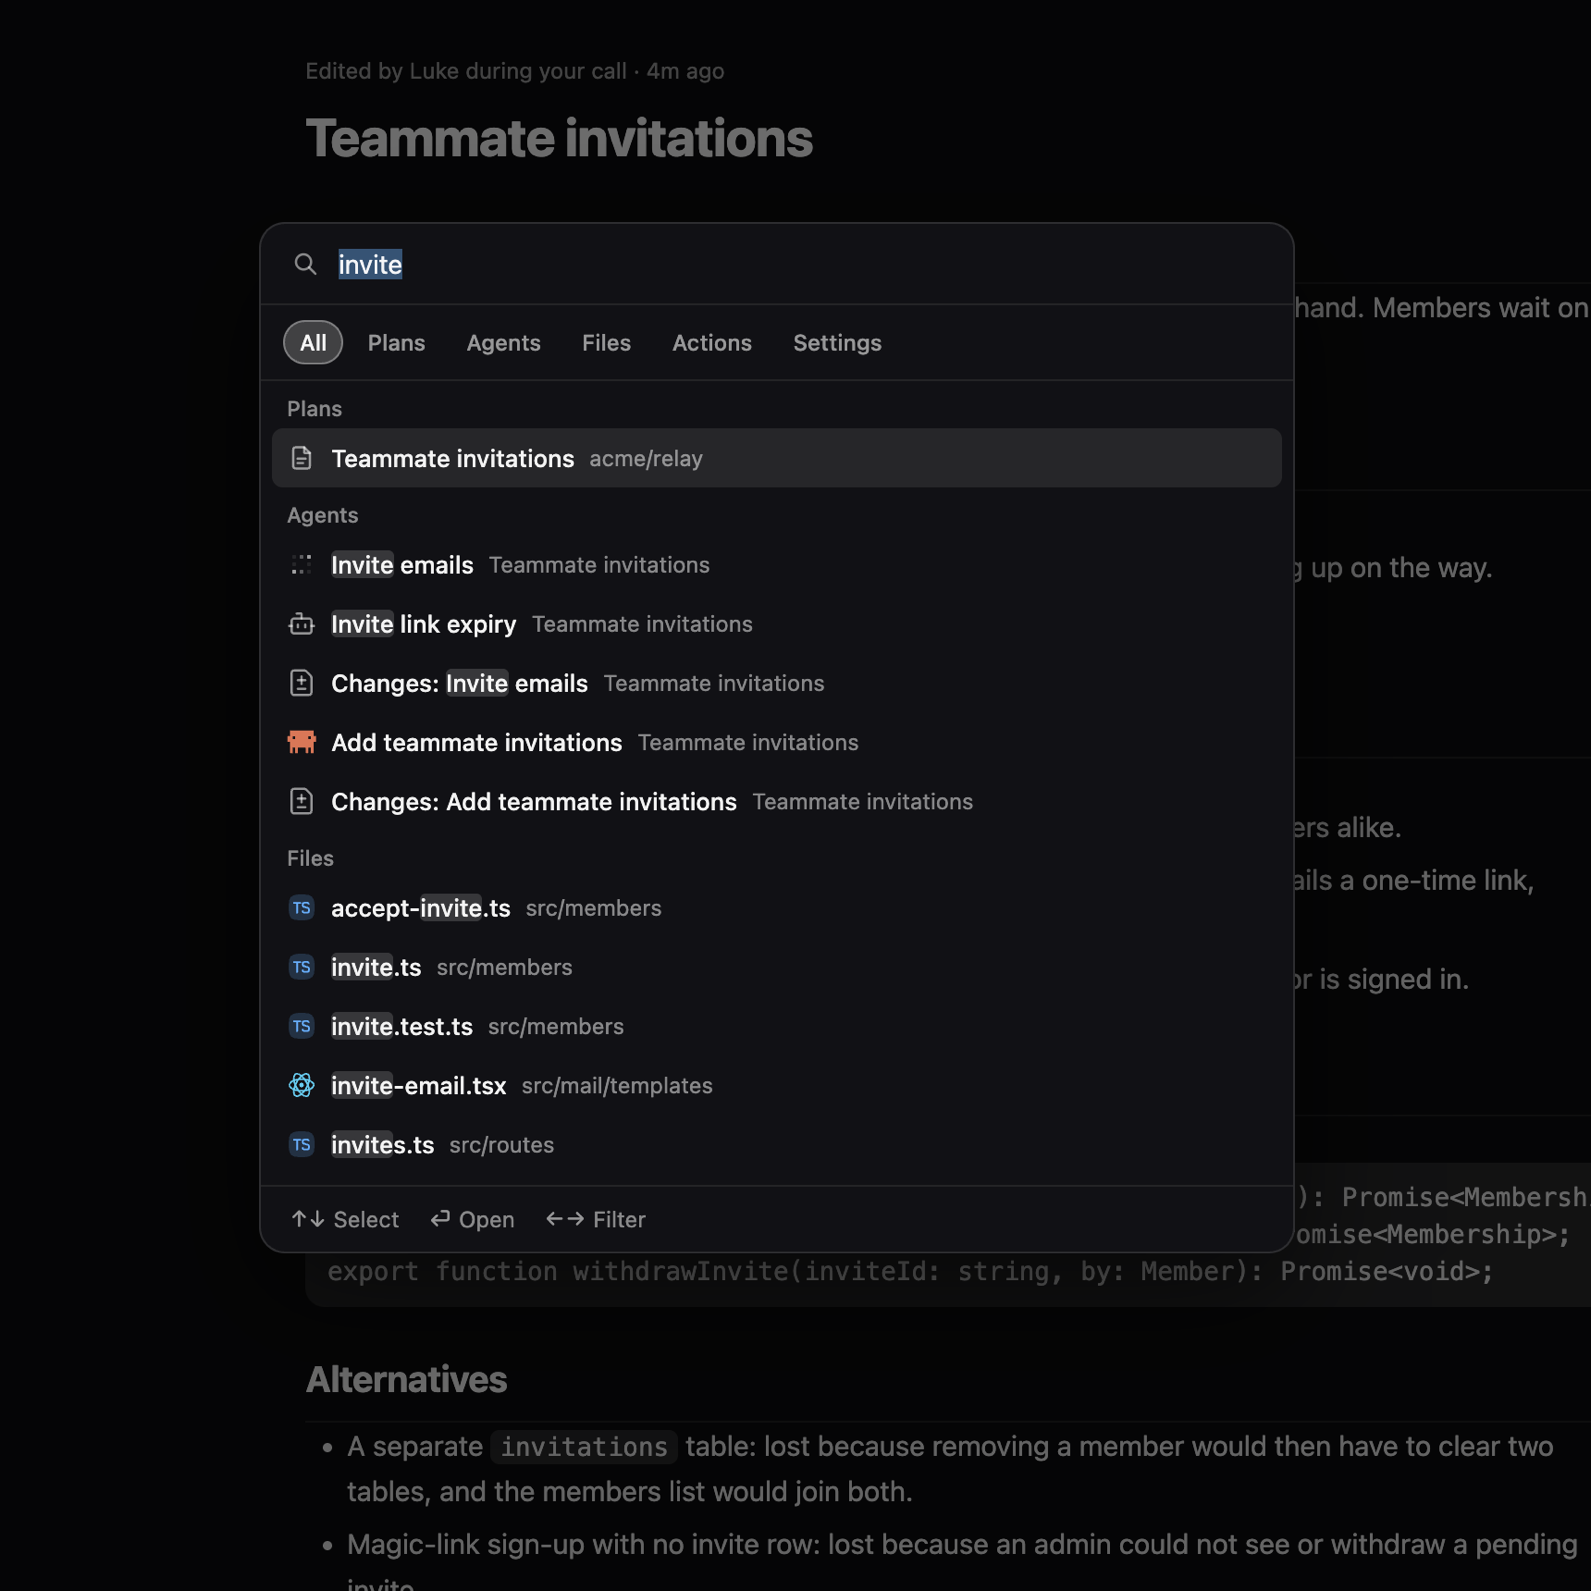
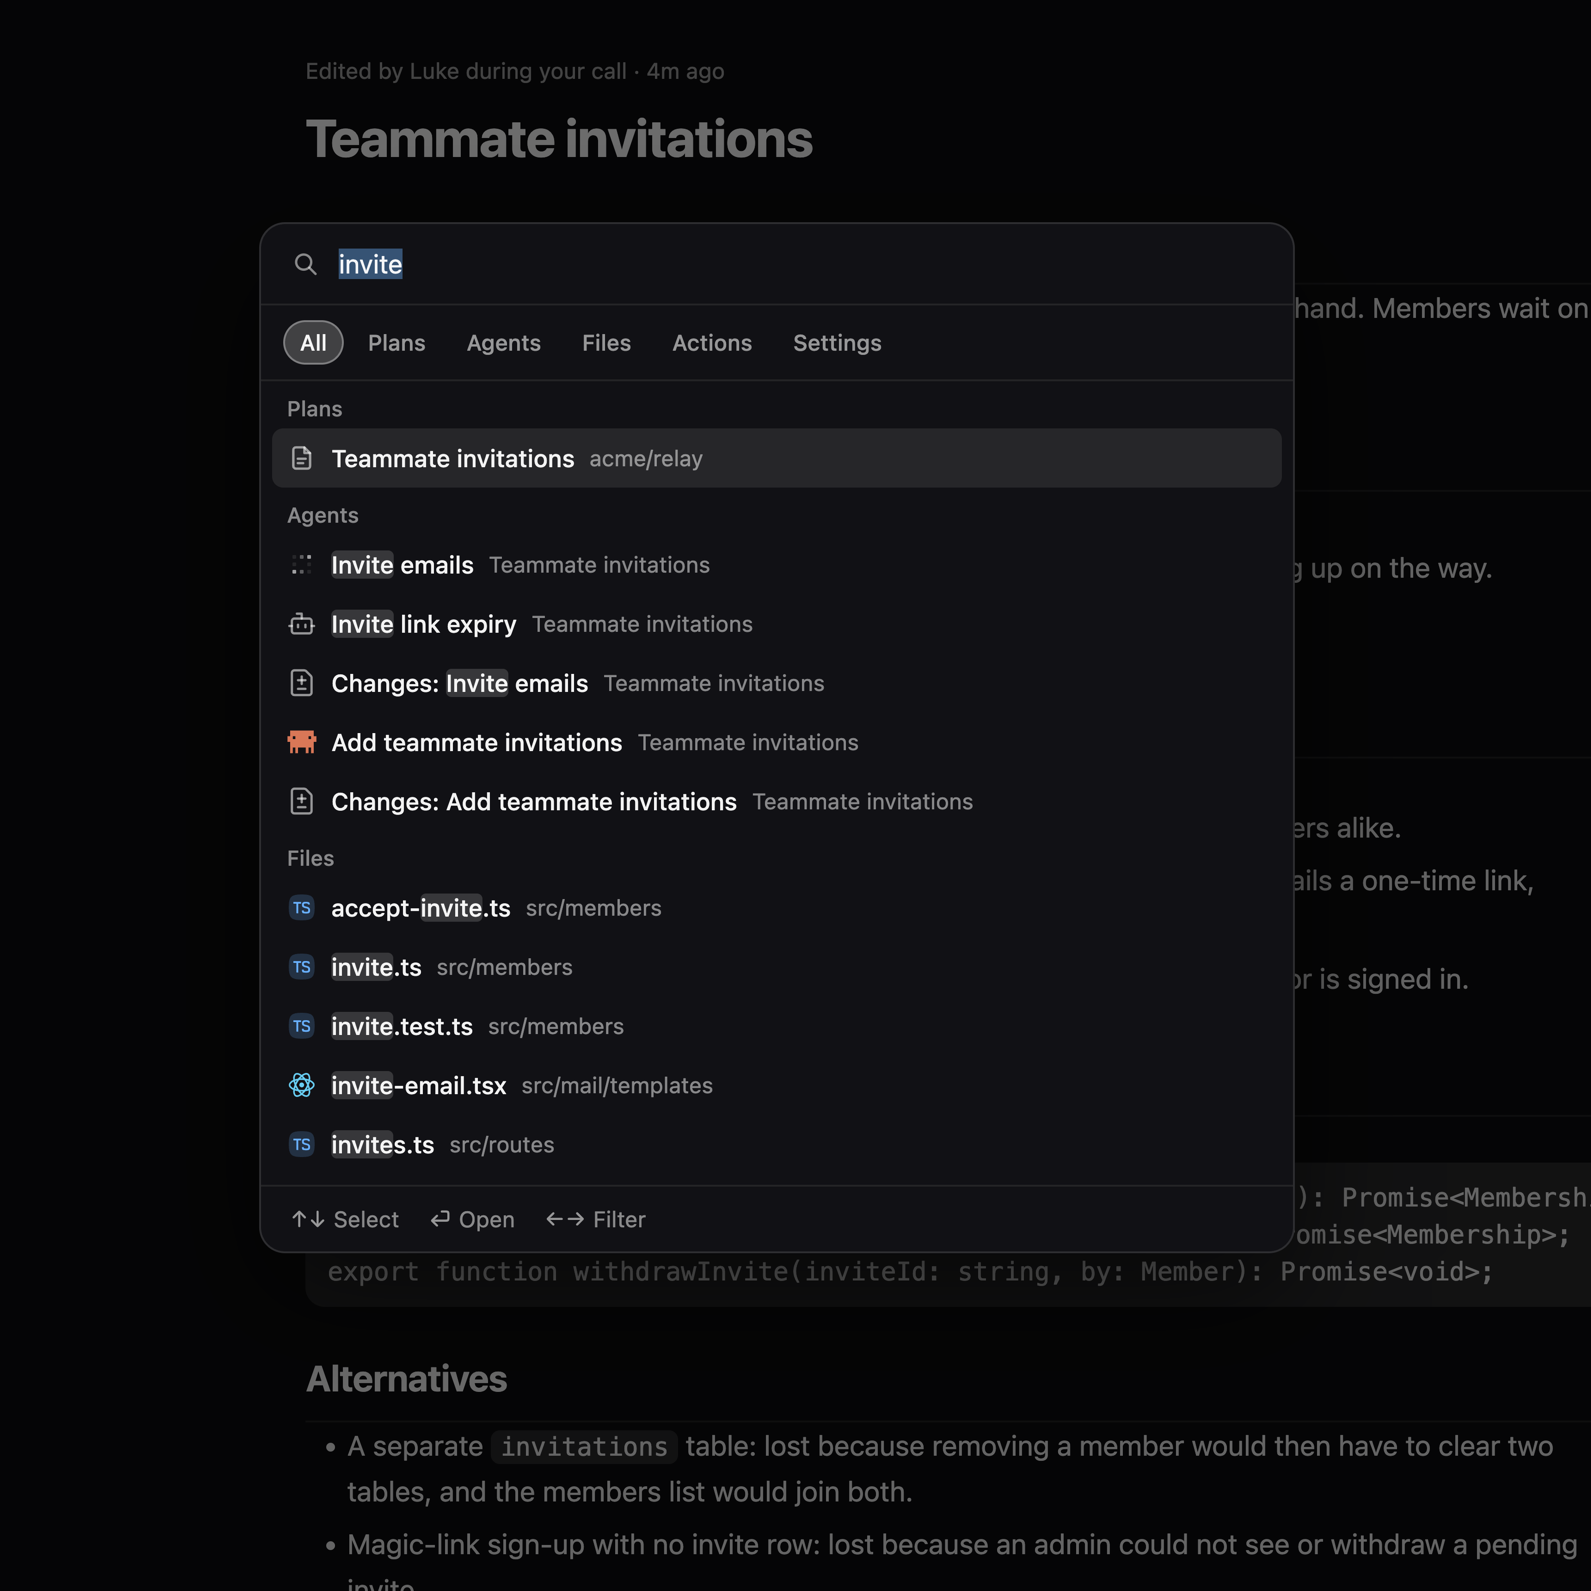
docs(changelog): close-ups are captured zoomed, so they are sharp, and every shot shows a feature working
A close-up no longer enlarges a Retina capture to the standard height: the
skill's helpers open the window LUKE_SHOT_ZOOM times larger in points (past
the screen, enableLargerThanScreen patched into the throwaway build) with its
page zoomed to match, so the layout is unchanged and drawn at 4 pixels a
point, and changelog-screenshot.sh --zoom tells the framer so the crop's
points stay the app's own. The ⌘K, skills, and integrations close-ups are
retaken that way. Integrations shows Sentry connected beside Linear and
Notion, and the rules now say a screenshot shows the state a feature is for,
never an error or empty state unless that is the news.

Changed region(s): [[0.2156, 0.154, 0.2464, 0.1848]]

diff --git a/scripts/lib/frame-screenshot.swift b/scripts/lib/frame-screenshot.swift
@@ -1,6 +1,6 @@
 // frame-screenshot.swift -- frames a macOS window capture on the Golden Gate Sunset aerial for CHANGELOG.md.
 //
-//   frame-screenshot <capture.png> <out.png> <wallpaper-cache.png> [x,y,width,height]
+//   frame-screenshot <capture.png> <out.png> <wallpaper-cache.png> [x,y,width,height [zoom]]
 //
 // The capture is a window as macOS's own window capture takes it: the window
 // body opaque, its shadow fading to transparent around it. The window body is
@@ -11,7 +11,9 @@
 // height the whole one would have, so a close-up stands beside the full
 // windows at their height, narrower and nearer. It is composed at the
 // capture's own resolution, so a crop at least 800 points tall is never
-// enlarged past its pixels. The wallpaper is the first
+// enlarged past its pixels, and a capture taken zoomed (the window that many
+// times larger, its page zoomed to match) holds that many times the pixels
+// for a crop of the same points. The wallpaper is the first
 // frame of macOS's Golden Gate Sunset aerial (Marshall's Beach), read once from
 // Apple's servers and cached, since macOS keeps the aerial as a video, not a
 // still.
@@ -170,10 +172,12 @@ func windowBody(_ image: CGImage) throws -> CGRect {
 }
 
 /// The window on the wallpaper: the wallpaper scaled to cover the canvas and centred, the window drawn shadow and all.
-func frame(capture: CGImage, wallpaper: CGImage, width outputWidth: Int = OUTPUT_WIDTH) throws -> CGImage {
+func frame(
+    capture: CGImage, wallpaper: CGImage, width outputWidth: Int = OUTPUT_WIDTH, margin: Int = MARGIN
+) throws -> CGImage {
     let body = try windowBody(capture)
-    let canvasWidth = body.width + CGFloat(2 * MARGIN)
-    let canvasHeight = body.height + CGFloat(2 * MARGIN)
+    let canvasWidth = body.width + CGFloat(2 * margin)
+    let canvasHeight = body.height + CGFloat(2 * margin)
     let scale = CGFloat(outputWidth) / canvasWidth
     let outputHeight = Int((canvasHeight * scale).rounded())
     let context = try wallpaperCanvas(width: outputWidth, height: outputHeight, wallpaper: wallpaper)
@@ -181,8 +185,8 @@ func frame(capture: CGImage, wallpaper: CGImage, width outputWidth: Int = OUTPUT
     // Note that we place the capture from the top, because the body was measured top-down and Core Graphics draws bottom-up.
     let captureWidth = CGFloat(capture.width) * scale
     let captureHeight = CGFloat(capture.height) * scale
-    let left = (CGFloat(MARGIN) - body.minX) * scale
-    let top = (CGFloat(MARGIN) - body.minY) * scale
+    let left = (CGFloat(margin) - body.minX) * scale
+    let top = (CGFloat(margin) - body.minY) * scale
     context.draw(
         capture,
         in: CGRect(
@@ -192,14 +196,19 @@ func frame(capture: CGImage, wallpaper: CGImage, width outputWidth: Int = OUTPUT
     return output
 }
 
-/// Part of the framed picture: the window on the wallpaper composed at the capture's resolution, cut to the crop, and scaled to the whole picture's height.
-func frameCrop(capture: CGImage, crop: CGRect, scale: CGFloat, wallpaper: CGImage) throws -> CGImage {
+/// Part of the framed picture: the window on the wallpaper composed at the capture's resolution, cut to the crop, and scaled to the height a whole unzoomed picture has.
+///
+/// Note that the margin grows with the zoom, because it is wallpaper in the window's points, not the capture's pixels.
+func frameCrop(capture: CGImage, crop: CGRect, scale: CGFloat, zoom: CGFloat, wallpaper: CGImage) throws -> CGImage {
     let body = try windowBody(capture)
-    let nativeWidth = Int(body.width) + 2 * MARGIN
-    let whole = try frame(capture: capture, wallpaper: wallpaper, width: nativeWidth)
-    let outputHeight = Int((CGFloat(whole.height) * CGFloat(OUTPUT_WIDTH) / CGFloat(nativeWidth)).rounded())
+    let margin = Int((CGFloat(MARGIN) * zoom).rounded())
+    let nativeWidth = Int(body.width) + 2 * margin
+    let whole = try frame(capture: capture, wallpaper: wallpaper, width: nativeWidth, margin: margin)
+    let outputHeight = Int(
+        ((body.height / zoom + CGFloat(2 * MARGIN)) * CGFloat(OUTPUT_WIDTH) / (body.width / zoom + CGFloat(2 * MARGIN)))
+            .rounded())
     let cut = CGRect(
-        x: CGFloat(MARGIN) + crop.minX * scale, y: CGFloat(MARGIN) + crop.minY * scale,
+        x: CGFloat(margin) + crop.minX * scale, y: CGFloat(margin) + crop.minY * scale,
         width: crop.width * scale, height: crop.height * scale
     ).integral
     let outputWidth = Int((cut.width * CGFloat(outputHeight) / cut.height).rounded())
@@ -224,9 +233,9 @@ func frameCrop(capture: CGImage, crop: CGRect, scale: CGFloat, wallpaper: CGImag
 }
 
 let arguments = CommandLine.arguments
-guard arguments.count == 4 || arguments.count == 5 else {
+guard (4...6).contains(arguments.count) else {
     FileHandle.standardError.write(
-        "usage: frame-screenshot <capture.png> <out.png> <wallpaper-cache.png> [x,y,width,height]\n".data(
+        "usage: frame-screenshot <capture.png> <out.png> <wallpaper-cache.png> [x,y,width,height [zoom]]\n".data(
             using: .utf8)!)
     exit(2)
 }
@@ -234,11 +243,13 @@ do {
     let captureURL = URL(fileURLWithPath: arguments[1])
     let capture = try loadImage(captureURL)
     let backdrop = try await wallpaper(cache: URL(fileURLWithPath: arguments[3]))
+    let zoom = arguments.count == 6 ? CGFloat(Double(arguments[5]) ?? 0) : 1
+    guard zoom >= 1 else { throw FrameError(description: "a zoom is a number of at least 1") }
     let framed =
-        arguments.count == 5
+        arguments.count >= 5
         ? try frameCrop(
-            capture: capture, crop: try parseCrop(arguments[4]), scale: pixelsPerPoint(captureURL),
-            wallpaper: backdrop)
+            capture: capture, crop: try parseCrop(arguments[4]), scale: pixelsPerPoint(captureURL) * zoom,
+            zoom: zoom, wallpaper: backdrop)
         : try frame(capture: capture, wallpaper: backdrop)
     try writePNG(framed, to: URL(fileURLWithPath: arguments[2]))
 } catch {

diff --git a/.agents/skills/changelog-screenshots/SKILL.md b/.agents/skills/changelog-screenshots/SKILL.md
@@ -82,6 +82,11 @@ Every picture, whatever it shows:
   `acme/ledger`, `acme/web`), its teal two-peak mark as the owner picture,
   believable plans, agents, diffs, and dialogue about one feature
   ("Teammate invitations"). Model ids from the repository's real catalog.
+- Positive states: everything connected, checks passing, work done or
+  moving. An error, an empty list, a disconnected service, or a "Connect"
+  button goes in only when that state is what the section announces; a state
+  the release really ships that the notes leave out (0.12.0's Slack "Not
+  available") stays rather than being faked away.
 - Real UI only. Stage data and state the app already draws; never add a row,
   label, or control the release does not have (0.12.0's first Integrations
   shot invented a GitHub row and was rejected). Something the release shows
@@ -127,19 +132,30 @@ Frame with the repository's own script, from the synced checkout:
 
 ```sh
 bash $S/scripts/changelog-screenshot.sh out/the-call-tab.png --from ~/luke-shots/<v>/call.png
-bash $S/scripts/changelog-screenshot.sh out/skills.png --from ~/luke-shots/<v>/skills.png --crop 30,230,860,830
+LUKE_SHOT_ZOOM=2 bash $S/.agents/skills/changelog-screenshots/scripts/window.sh ~/luke-shots/<v>/skills.png --profile shot-skills
+bash $S/scripts/changelog-screenshot.sh out/skills.png --from ~/luke-shots/<v>/skills.png --crop 30,230,860,830 --zoom 2
 ```
 
+Capture a close-up zoomed, so it is sharp: `LUKE_SHOT_ZOOM=2 window.sh …`
+opens the window twice as large in points (past the screen, which
+`patch-dist.sh` allows) with its page zoomed to match, so the layout is the
+same 1600 by 1000 points drawn at 4 pixels a point; frame it with `--zoom 2`
+and the same crop. macOS's own chrome does not zoom, so the traffic lights,
+corners, and shadow come out half size: take a close-up that shows the
+window's edge (the sidebar's corner) unzoomed, and make it tall enough not to
+need the pixels.
+
 A crop is `x,y,width,height` in window points from the window's top-left
-corner; go negative or past the window, up to 90 points, to take in
-wallpaper. It is cut from the framed picture and scaled to the whole
-picture's height (1591 pixels), so it can be no wider than about 1.5 times its
-height, and at under about 800 points tall it is enlarged past the capture's
-pixels: keep it above about 600 so text stays sharp. Find the numbers from a
-preview of the raw capture, which is 2 pixels a point on a Retina display, its
-window body starting 112 by 76 pixels in from the shadow. A close-up that
-shows empty space is a staging problem as often as a cropping one: 0.12.0's
-skill picker needed more transcript above it, not a tighter crop.
+corner; go negative or past the window, up to 90 points, to take in wallpaper.
+It is cut from the framed picture and scaled to the whole picture's height
+(1591 pixels), so it can be no wider than about 1.5 times its height.
+Unzoomed, a crop under about 800 points tall is enlarged past the capture's
+pixels and goes soft; at `--zoom 2` that floor is about 400. Find the numbers
+from a preview of the raw capture, which is 2 pixels a point on a Retina
+display, its window body starting 112 by 76 pixels in from the shadow. A
+close-up that shows empty space is a staging problem as often as a cropping
+one: 0.12.0's skill picker needed more transcript above it, not a tighter
+crop.
 
 Review every picture in the cloud before showing anyone: make small JPEG
 previews on the Mac (`sips -s format jpeg -Z 1500`), `tar` and `base64` them

diff --git a/CHANGELOG.md b/CHANGELOG.md
@@ -48,8 +48,10 @@
      closed, open, or full screen, a menu or card held open) is whatever puts
      the feature in front, as the whole window at 1600 by 1000 points or, with
      `--crop`, a close-up cut from that same framed picture, inside the app and
-     as tall as every other screenshot, only narrower. Every picture is signed
-     in as Dean Stratakos with his GitHub photo, shows no Update pill or other
+     as tall as every other screenshot, only narrower. Each shows the state a
+     feature is for, everything connected, passing, and done, never an error or
+     empty state unless that state is the news. Every picture is signed in as
+     Dean Stratakos with his GitHub photo, shows no Update pill or other
      development chrome, and dates everything minutes or days before the
      capture, never the fixture's 1970 or an hours-long timer. Its data is
      synthetic: the acme organisation, its teal mark, and its repositories,
@@ -234,7 +236,7 @@ server off for that chat, and connects one in place.
 [#2336](https://github.com/ReviewStage/luke/pull/2336),
 [#2358](https://github.com/ReviewStage/luke/pull/2358))
 
-![Settings › Integrations with Linear and Notion connected and Sentry offering Connect.](apps/web/public/changelog/0.12.0/integrations.png)
+![Settings › Integrations with Linear, Notion, and Sentry connected.](apps/web/public/changelog/0.12.0/integrations.png)
 
 ### The call follows you
 
